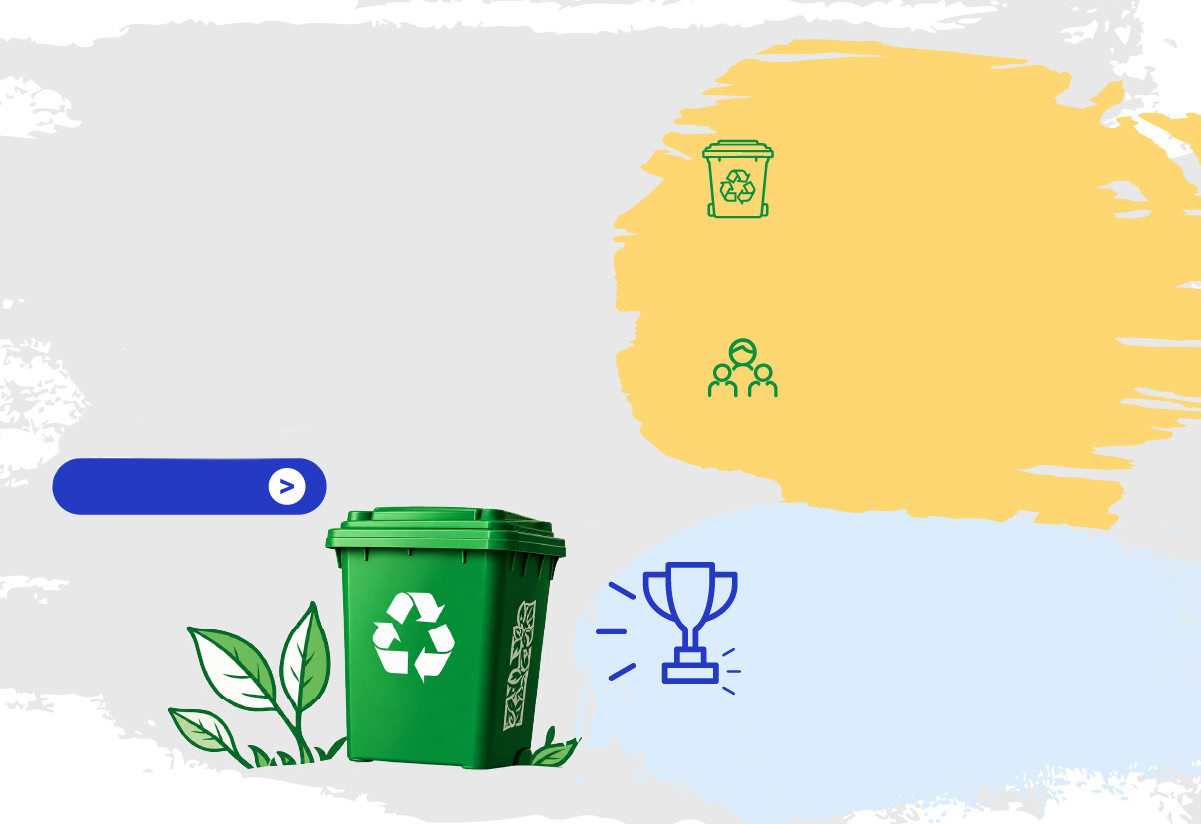
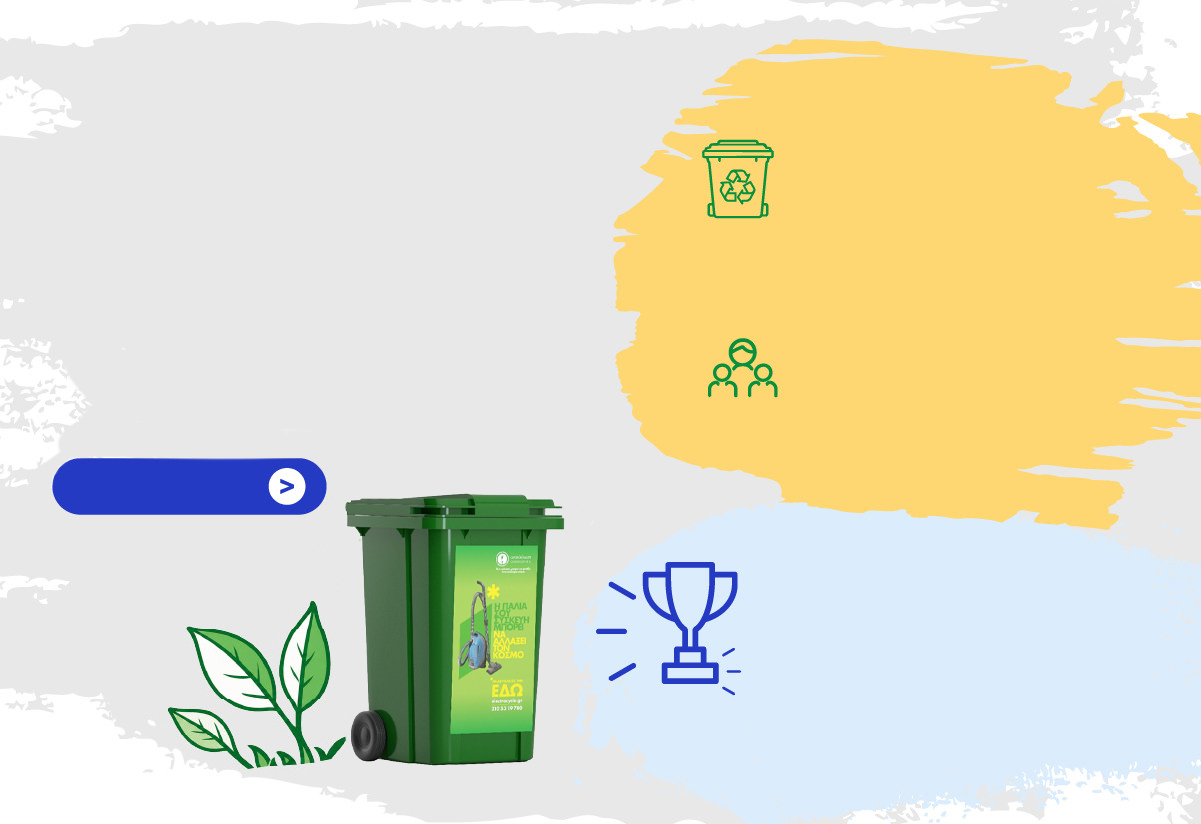
Add files via upload

Changed region(s): [[0.2465, 0.5765, 0.4929, 0.9405]]

diff --git a/index.html b/index.html
@@ -49,9 +49,9 @@
 <tr><td align="center" style="margin:0;padding:0;">
 <img alt="Πράσινα Πινέλα — 2ος Μαθητικός Διαγωνισμός Δημιουργίας για την ανακύκλωση συσκευών" class="responsive-img" src="01.jpg" style="display:block;width:100%;max-width:600px;height:auto;" width="600"/>
 </td></tr>
-<tr><td class="mobile-pad live-text" style="padding:13px 28px 16px 28px;color:#151923;font-size:13px;line-height:1.4;">
+<tr><td class="mobile-pad live-text" style="padding:13px 18px 16px 18px;color:#151923;font-size:12.5px;line-height:1.4;">
 <p style="margin:0 0 8px 0;">Αγαπητές/οί εκπαιδευτικοί,</p>
-<p style="margin:0;">Η Ανακύκλωση Συσκευών Α.Ε. (<a href="https://www.electrocycle.gr" style="color:#164896;text-decoration:underline;">www.electrocycle.gr</a>) σας προσκαλεί στον <strong>2ο Μαθητικό Διαγωνισμό Δημιουργίας για την Ανακύκλωση Συσκευών</strong> με τίτλο <strong>«Πράσινα Πινέλα»</strong> για τη σχολική χρονιά 2026–2027.</p>
+<p style="margin:0;"><a href="https://www.electrocycle.gr" target="_blank" style="color:#164896;text-decoration:underline;">Η Ανακύκλωση Συσκευών Α.Ε.</a> σας προσκαλεί στον <strong>2ο Μαθητικό Διαγωνισμό Δημιουργίας για την Ανακύκλωση Συσκευών</strong> με τίτλο <strong>«Πράσινα Πινέλα»</strong> για τη σχολική χρονιά <span style="white-space:nowrap;">2026–2027</span>.</p>
 </td></tr>
 <tr><td style="padding:0;">
 <table background="03.jpg" border="0" cellpadding="0" cellspacing="0" class="desktop-only bg-03" height="188" role="presentation" style="width:600px;height:188px;table-layout:fixed;background-image:url('03.jpg');background-size:600px 188px;background-position:top left;background-repeat:no-repeat;" width="600">
@@ -90,7 +90,7 @@
 <tr><td style="height:156px;padding:6px 20px 0 40px;vertical-align:top;font-family:Arial,Helvetica,sans-serif;" valign="top">
 <p style="margin:0 0 14px;font-size:12px;line-height:17px;color:#101317;font-family:Arial,Helvetica,sans-serif;">Έναρξη Αιτήσεων:<br/><strong style="color:#1f469c;">Οκτώβριος 2026</strong></p>
 <p style="margin:0;font-size:12px;line-height:17px;color:#101317;font-family:Arial,Helvetica,sans-serif;">Υποβολή έργων μέχρι:<br/><strong style="color:#1f469c;">19 Μαρτίου 2027</strong></p></td></tr>
-<tr><td height="34" valign="top" style="height:24px;padding:10px 0 0 50px;vertical-align:top;font-size:12.5px;line-height:15px;mso-line-height-rule:exactly;white-space:nowrap;font-family:Arial,Helvetica,sans-serif;"><a href="https://docs.google.com/forms/d/e/1FAIpQLSebGooFXI_0ugDrvFIKK2s-HpLl5LscOCTQCEJxemMUmXbBEA/viewform?usp=dialog" target="_blank" style="color:#ffffff;font-size:12.5px;line-height:15px;font-weight:bold;text-decoration:none;white-space:nowrap;font-family:Arial,Helvetica,sans-serif;">Δηλώστε συμμετοχή εδώ</a></td></tr>
+<tr><td height="34" valign="top" style="height:24px;padding:10px 0 0 40px;vertical-align:top;font-size:12.5px;line-height:15px;mso-line-height-rule:exactly;white-space:nowrap;font-family:Arial,Helvetica,sans-serif;"><a href="https://docs.google.com/forms/d/e/1FAIpQLSebGooFXI_0ugDrvFIKK2s-HpLl5LscOCTQCEJxemMUmXbBEA/viewform?usp=dialog" target="_blank" style="color:#ffffff;font-size:12.5px;line-height:15px;font-weight:bold;text-decoration:none;white-space:nowrap;font-family:Arial,Helvetica,sans-serif;">Δηλώστε συμμετοχή εδώ</a></td></tr>
 </table></td>
 <td style="width:366px;height:288px;padding:0;vertical-align:top;" valign="top" width="366">
 <table border="0" cellpadding="0" cellspacing="0" role="presentation" width="366" style="width:366px;table-layout:fixed;">
@@ -149,8 +149,8 @@
 <tr><td style="height:217px;padding:23px 10px 0 27px;vertical-align:top;font-family:Arial,Helvetica,sans-serif;" valign="top">
 <h2 style="font-size:21px;line-height:23px;color:#243ac2;margin:0 0 6px;font-family:Arial,Helvetica,sans-serif;">«Η Ανακύκλωση Συσκευών στην Πράξη»</h2>
 <h3 style="font-size:16px;line-height:19px;color:#0a903c;margin:0 0 9px;font-family:Arial,Helvetica,sans-serif;">δράση για σχολικές μονάδες</h3>
-<p style="font-size:11.5px;line-height:15.5px;color:#101417;margin:0;font-family:Arial,Helvetica,sans-serif;">Οι σχολικές μονάδες μπορούν, εφόσον το επιθυμούν, να συμμετάσχουν στη δράση «Η Ανακύκλωση Συσκευών στην Πράξη» και να γίνουν μέρος ενός προγράμματος, το οποίο ήδη υποστηρίζεται σε πολλά σχολεία σε όλη τη χώρα.</p><p style="margin:4px 0 0;font-size:9.2px;line-height:14.2px;color:#101417;font-family:Arial,Helvetica,sans-serif;">Πληροφορίες για τον τρόπο συμμετοχής των σχολείων θα βρείτε στο <strong>Ενημερωτικό Έντυπο «Η Ανακύκλωση Συσκευών στην Πράξη»</strong>.</p></td></tr>
-<tr><td height="28" valign="top" style="height:20px;padding:11.4px 0 0 34px;vertical-align:top;font-size:8.8px;line-height:12px;mso-line-height-rule:exactly;white-space:nowrap;font-family:Arial,Helvetica,sans-serif;"><a href="https://prasinapinela.gr/wp-content/uploads/2026/10/Enimerotiko_Drasis_Anakiklosi_Siskevon_Stin_Praksi_2026_2027.pdf" target="_blank" style="color:#ffffff;font-size:8.8px;line-height:12px;font-weight:bold;text-decoration:none;white-space:nowrap;font-family:Arial,Helvetica,sans-serif;">Ενημερωτικό Έντυπο</a></td></tr>
+<p style="font-size:11.5px;line-height:15.5px;color:#101417;margin:0;font-family:Arial,Helvetica,sans-serif;">Οι σχολικές μονάδες μπορούν, εφόσον το επιθυμούν, να συμμετάσχουν στη δράση «Η Ανακύκλωση Συσκευών στην Πράξη» και να γίνουν μέρος ενός προγράμματος, το οποίο ήδη υποστηρίζεται σε πολλά σχολεία σε όλη τη χώρα.</p><p style="margin:4px 0 0;font-size:9.2px;line-height:11.2px;color:#101417;font-family:Arial,Helvetica,sans-serif;">Πληροφορίες για τον τρόπο συμμετοχής των σχολείων θα βρείτε στο <strong>Ενημερωτικό Έντυπο «Η Ανακύκλωση Συσκευών στην Πράξη»</strong>.</p></td></tr>
+<tr><td height="28" valign="top" style="height:14px;padding:18px 0 0 34px;vertical-align:top;font-size:8.8px;line-height:12px;mso-line-height-rule:exactly;white-space:nowrap;font-family:Arial,Helvetica,sans-serif;"><a href="https://prasinapinela.gr/wp-content/uploads/2026/10/Enimerotiko_Drasis_Anakiklosi_Siskevon_Stin_Praksi_2026_2027.pdf" target="_blank" style="color:#ffffff;font-size:8.8px;line-height:12px;font-weight:bold;text-decoration:none;white-space:nowrap;font-family:Arial,Helvetica,sans-serif;">Ενημερωτικό Έντυπο</a></td></tr>
 <tr><td style="height:167px;font-size:1px;line-height:1px;">&nbsp;</td></tr>
 </table></td>
 <td style="width:310px;height:412px;padding:0;vertical-align:top;" valign="top" width="310">
